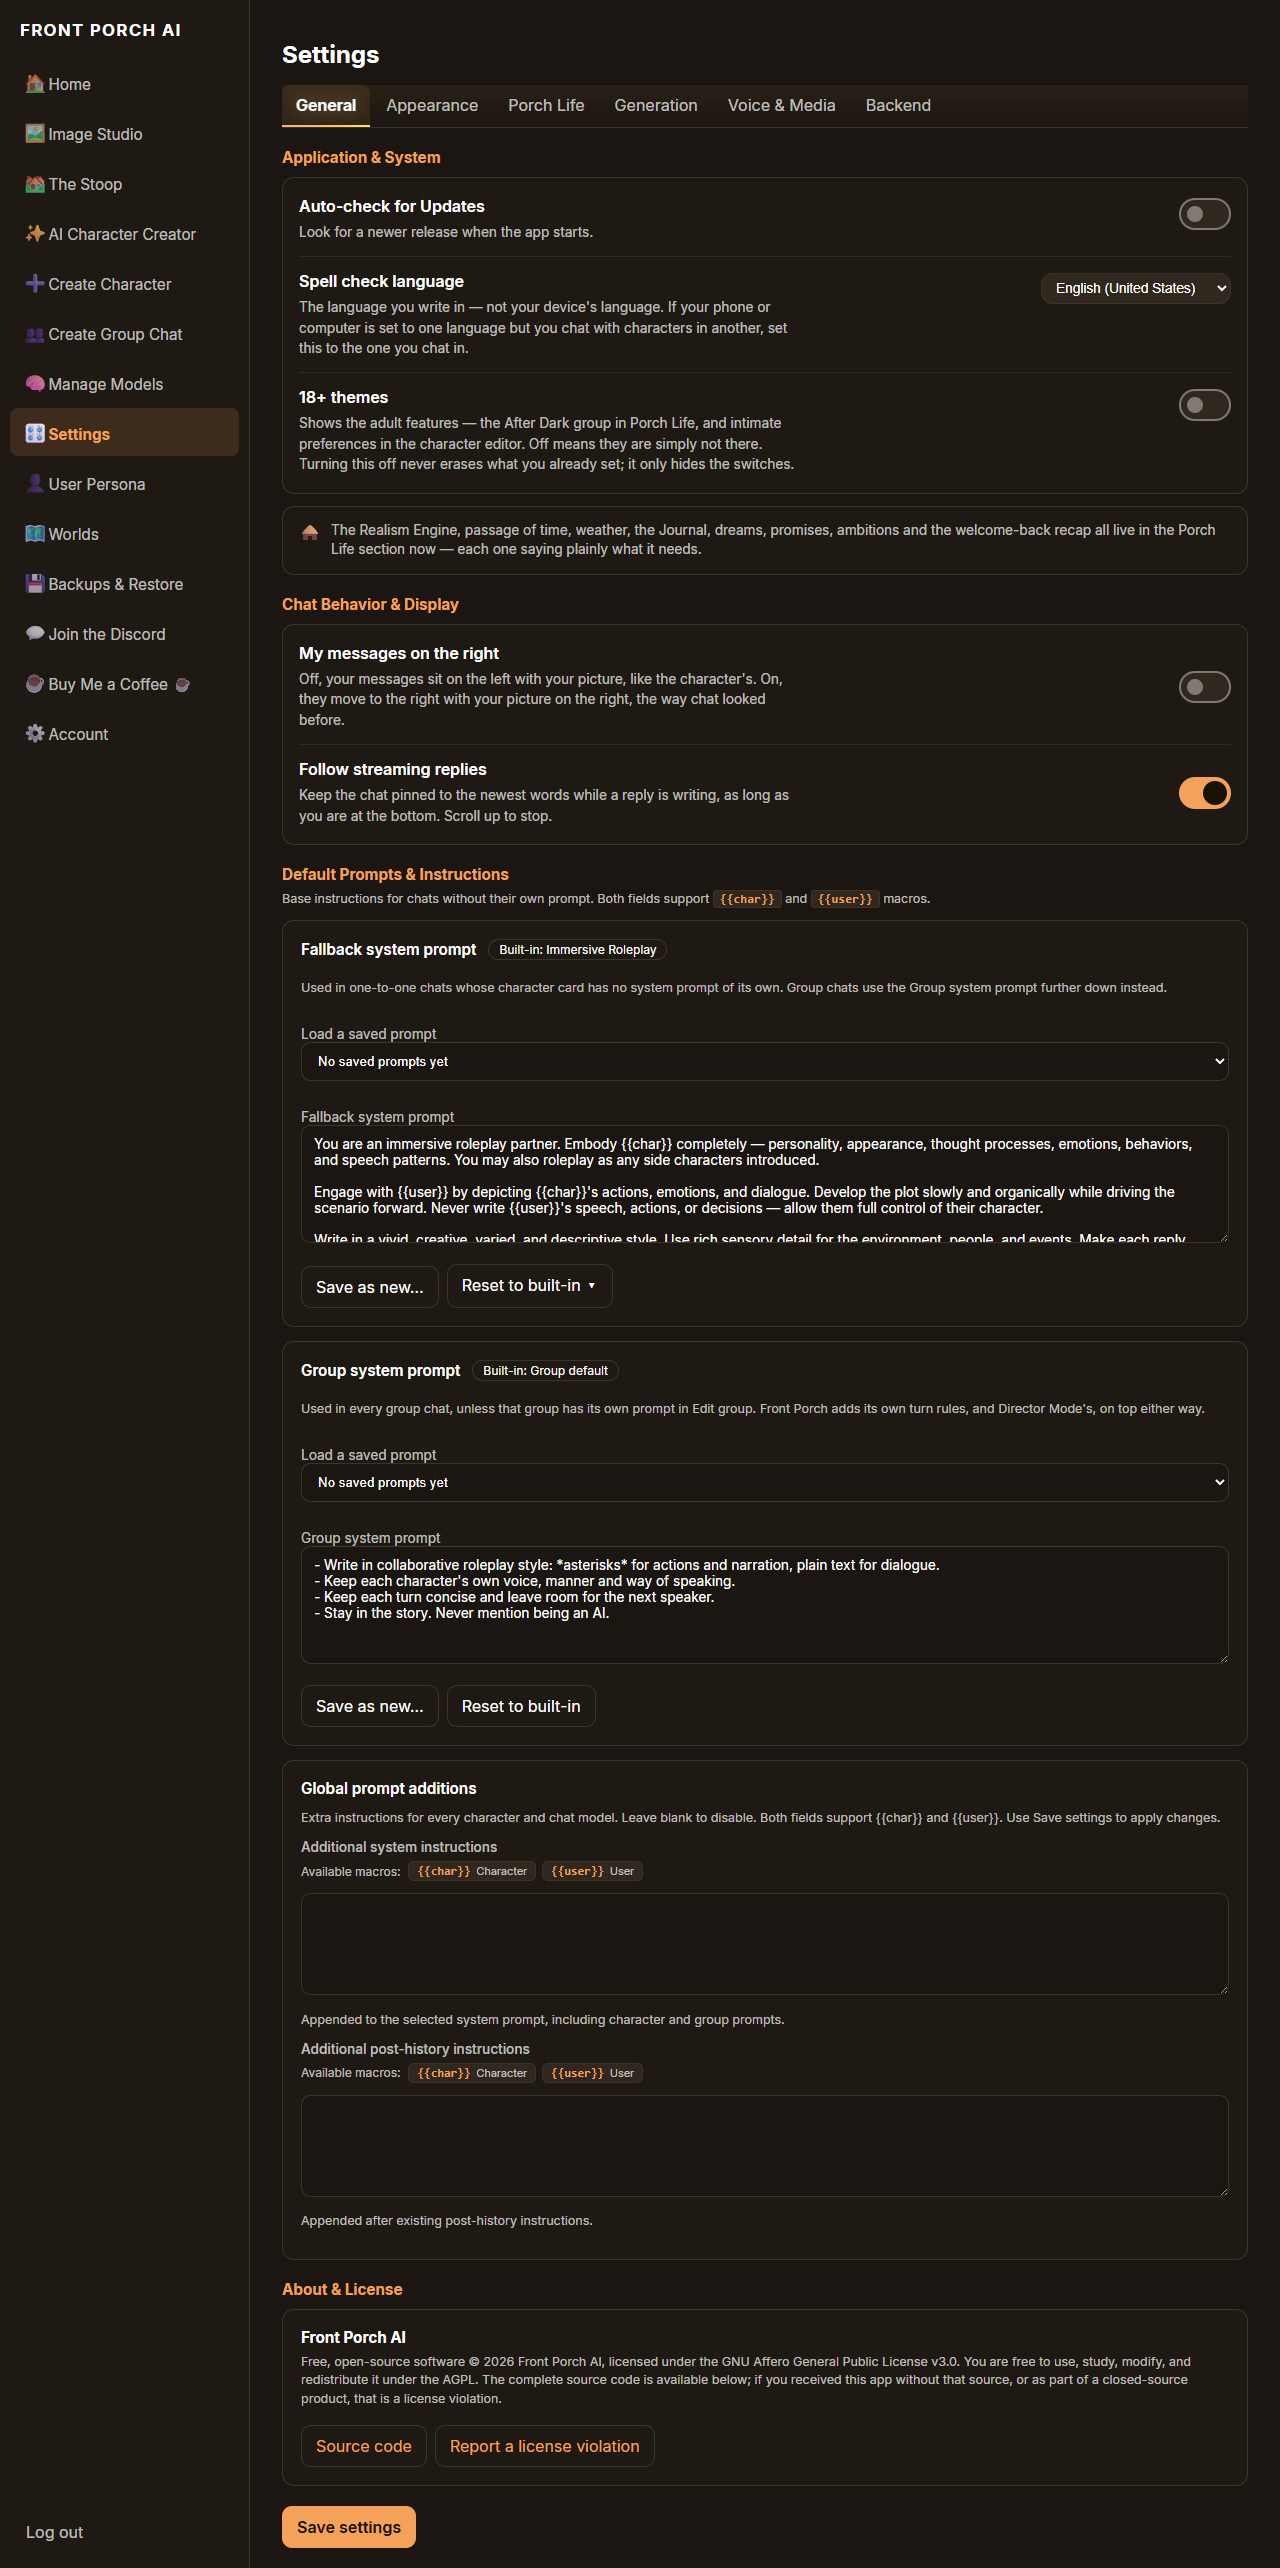
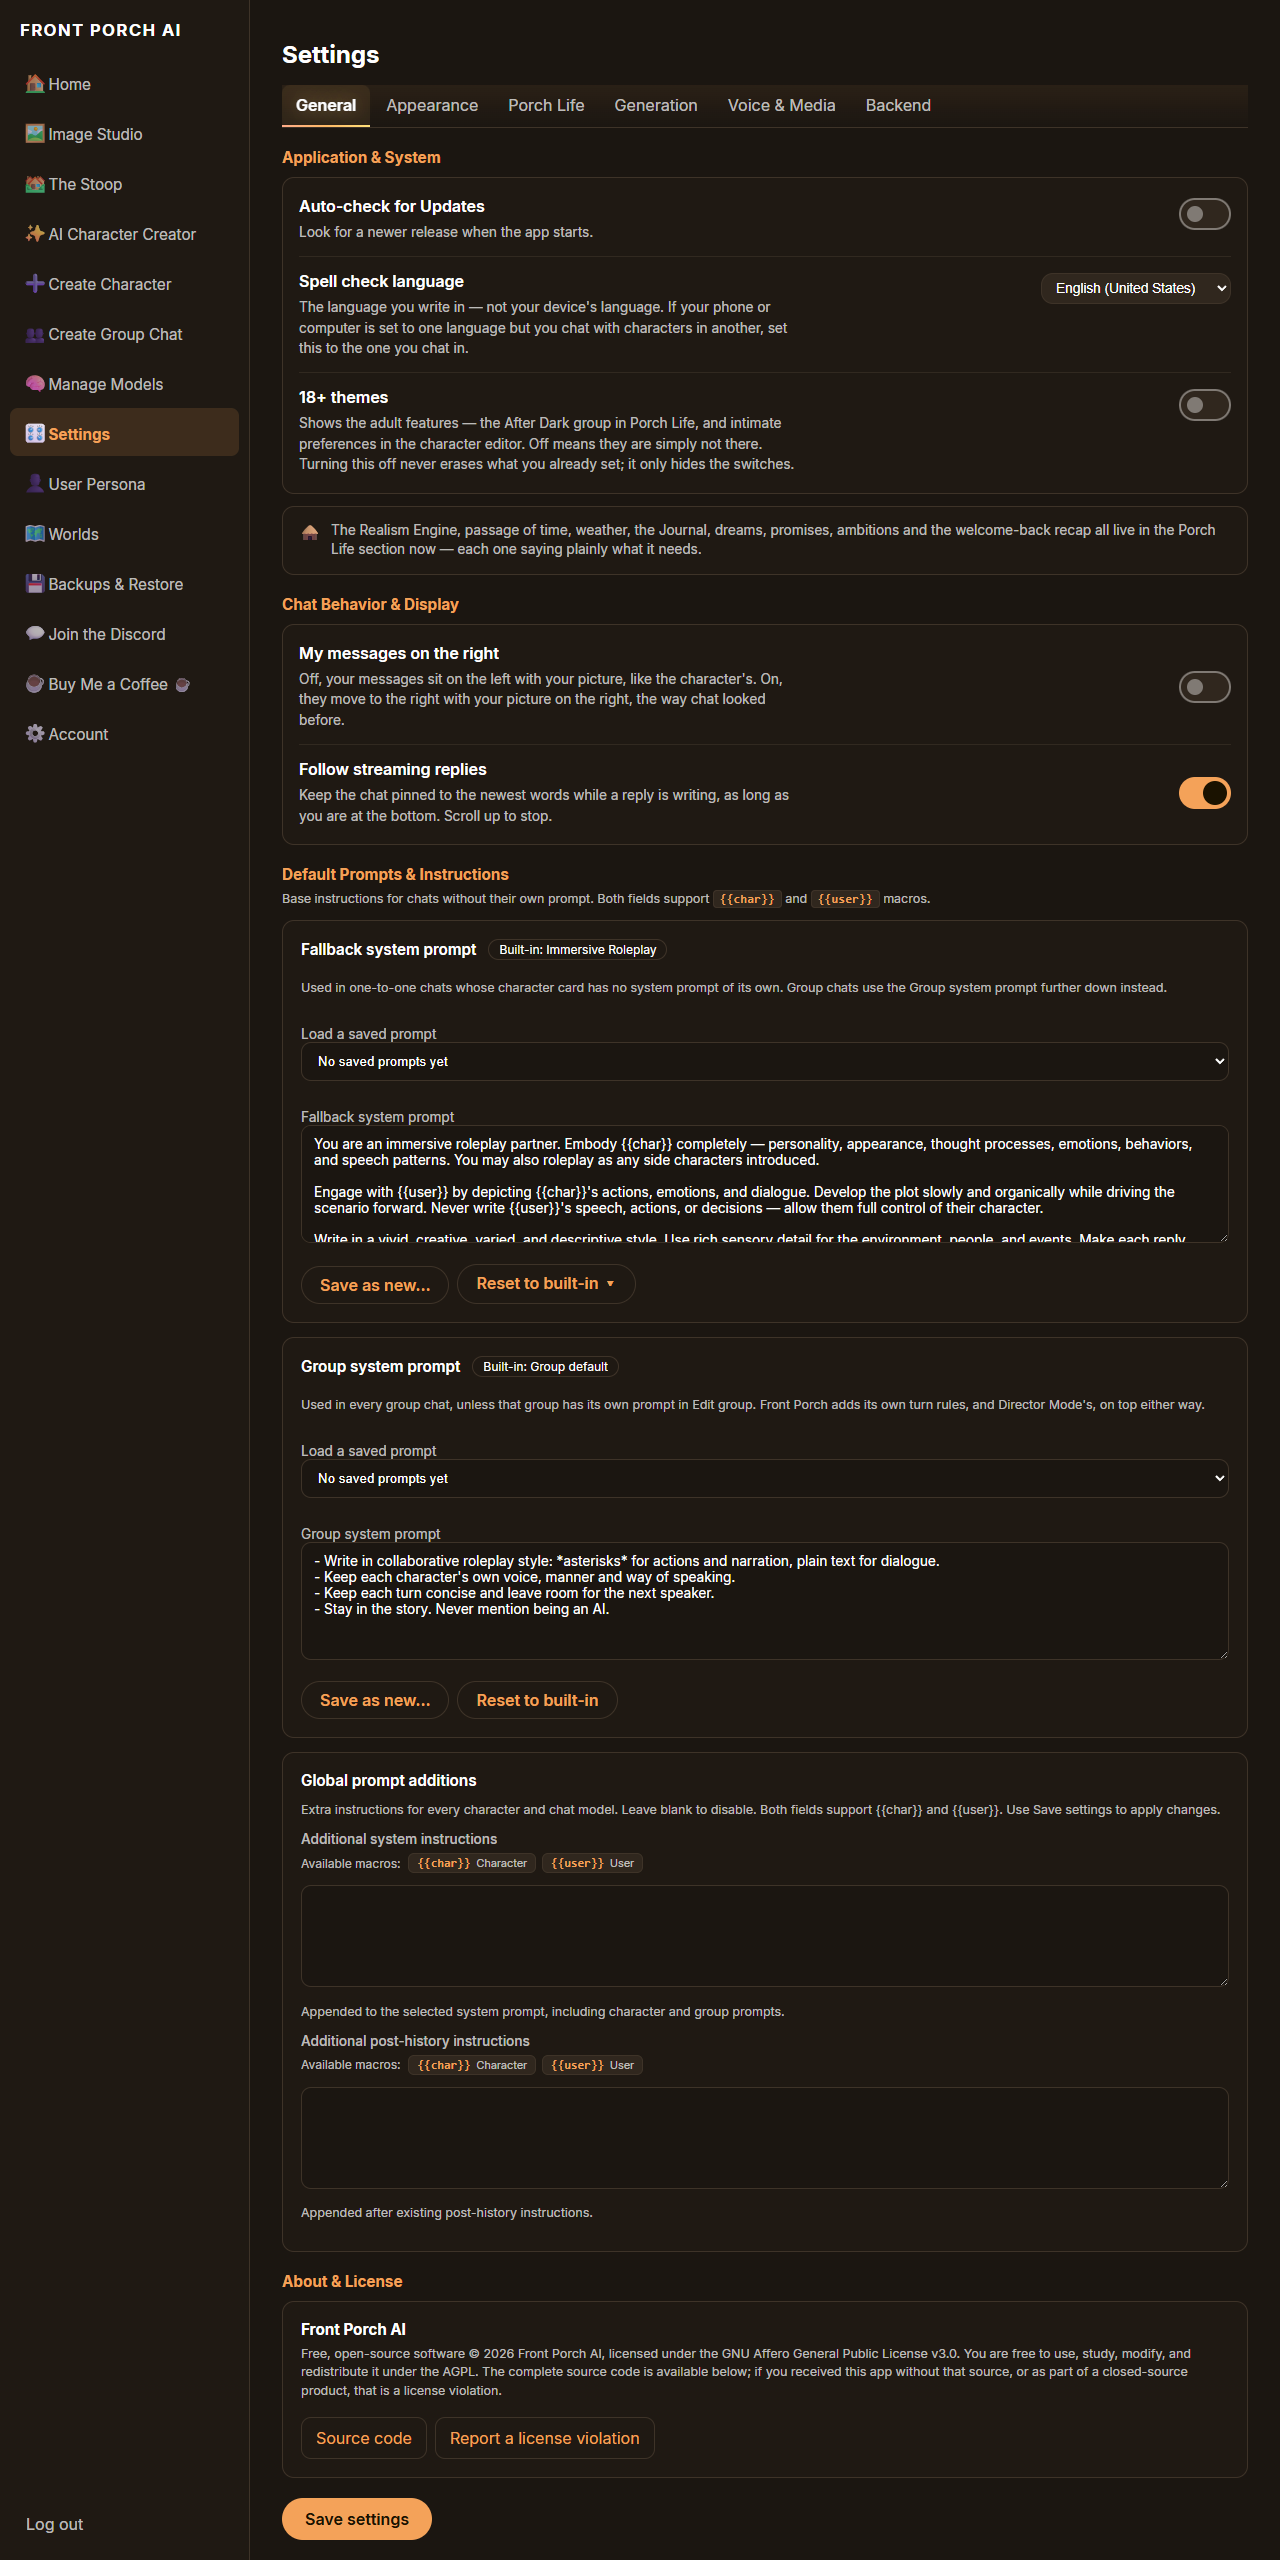
style(web/general): match Desktop pill Save and Reset buttons, update screenshots

diff --git a/web_ui/src/styles/settings.css b/web_ui/src/styles/settings.css
@@ -546,3 +546,12 @@ input.switch:disabled { opacity: 0.5; cursor: default; }
 .prompt-field-group { margin-top: 14px; }
 .prompt-field-group label { margin-bottom: 4px; font-weight: 500; }
 .prompt-field-group textarea { margin-top: 2px; }
+
+/* Match Desktop rounded pill Save / Reset buttons */
+.settings-save button.primary { border-radius: 999px; padding: 10px 22px; }
+.prompt-slot button:not(.primary):not(.icon-btn) {
+  border-radius: 999px; background: transparent;
+  border: 1px solid var(--border); color: var(--porch-amber);
+  font-weight: 600; padding: 8px 18px;
+}
+.prompt-slot button.primary { border-radius: 999px; padding: 8px 18px; }
